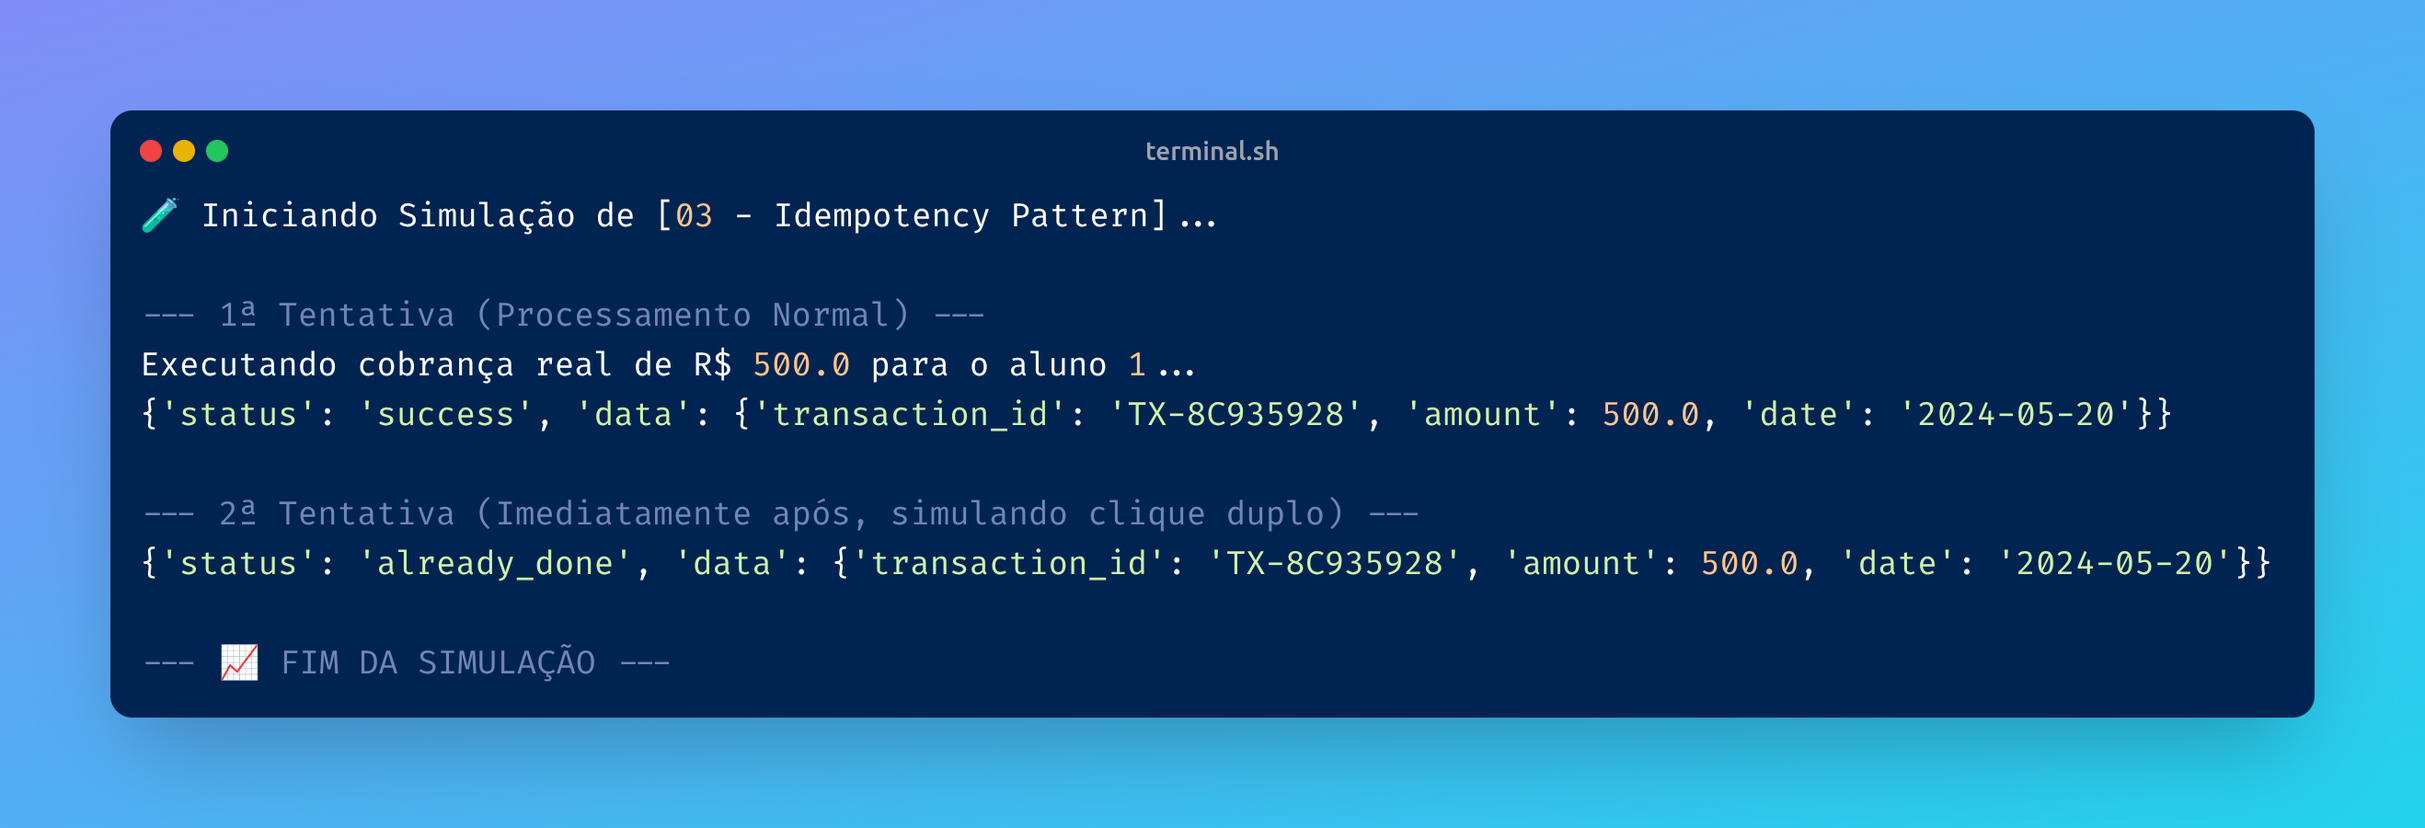
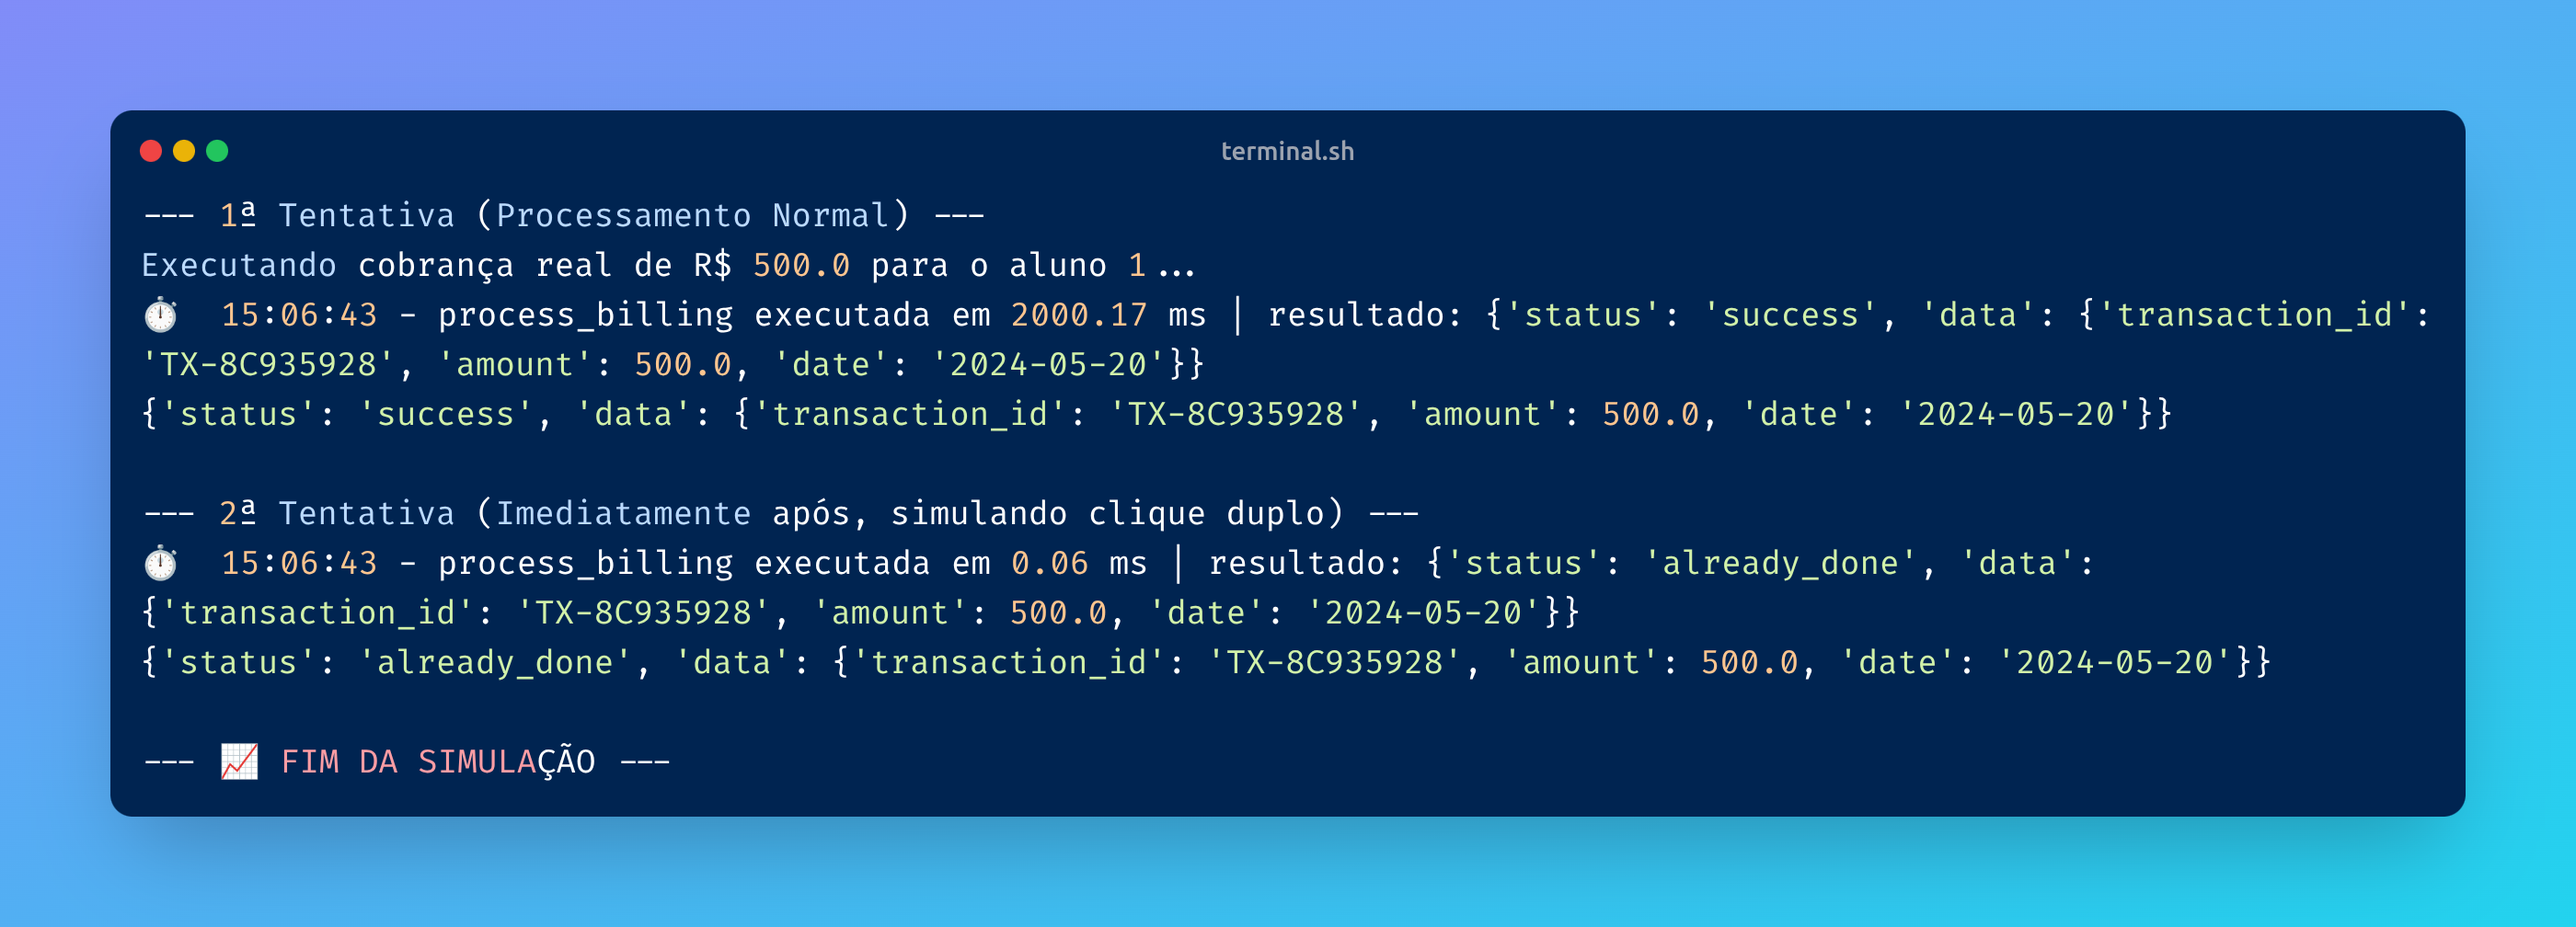
Adicionar Badges, Tabela de Navegação, Instruções de Execução (main.py) e Print do Terminal Completo

diff --git a/utils/decorators.py b/utils/decorators.py
@@ -1,0 +1,55 @@
+import time
+import logging
+from functools import wraps
+from typing import Callable, Optional
+
+logger = logging.getLogger(__name__)
+
+def timer(
+    log_level: int = logging.INFO,
+    log_args: bool = True,
+    log_result: bool = True,
+    logger_instance: Optional[logging.Logger] = None
+) -> Callable:
+    """
+    Decorator para medir tempo de execução de funções e registrar em log.
+
+    Args:
+        log_level: Nível do log (logging.DEBUG, INFO, etc.)
+        log_args: Se True, registra os argumentos da chamada.
+        log_result: Se True, registra o resultado da função.
+        logger_instance: Logger customizado (caso queira um logger específico).
+
+    Uso:
+        @timer(log_level=logging.DEBUG, log_args=False)
+        def minha_funcao(x, y):
+            ...
+    """
+    def decorator(func: Callable) -> Callable:
+        @wraps(func)
+        def wrapper(*args, **kwargs):
+            nonlocal logger_instance
+            if logger_instance is None:
+                logger_instance = logger
+
+            start = time.perf_counter()
+            try:
+                result = func(*args, **kwargs)
+                duration_ms = (time.perf_counter() - start) * 1000
+
+                msg = f"{func.__name__} executada em {duration_ms:.2f} ms"
+                if log_args:
+                    msg += f" | args: {args}, kwargs: {kwargs}"
+                if log_result and result is not None:
+                    msg += f" | resultado: {result}"
+
+                logger_instance.log(log_level, msg)
+                return result
+            except Exception as e:
+                duration_ms = (time.perf_counter() - start) * 1000
+                logger_instance.error(
+                    f"{func.__name__} falhou após {duration_ms:.2f} ms | erro: {e}"
+                )
+                raise  # relança a exceção (ou você pode retornar um erro estruturado)
+        return wrapper
+    return decorator

diff --git a/03-idempotency/idempotent_engine.py b/03-idempotency/idempotent_engine.py
@@ -1,6 +1,23 @@
+import os
 import time
 import hashlib
 import json
+import sys
+from pathlib import Path
+
+# Adiciona a raiz do projeto ao path para localizar a pasta /utils
+sys.path.append(os.path.abspath(os.path.join(os.path.dirname(__file__), '..')))
+# project_root = Path(__file__).parent.parent  # sobe de 03-idempotency/ para a raiz
+# sys.path.insert(0, str(project_root))
+
+import logging
+logging.basicConfig(
+    level=logging.INFO,
+    format='⏱  %(asctime)s - %(message)s',
+    datefmt='%H:%M:%S',
+    force=True
+)
+from utils.decorators import timer
 
 DATABASE = {}
 
@@ -14,6 +31,7 @@ def generate_idempotency_key(payload):
     dump = json.dumps(payload, sort_keys=True)
     return hashlib.md5(dump.encode()).hexdigest()
 
+@timer(log_args=False)
 def process_billing(student_id, amount, request_id=None):
     # Se não vier um ID do front-end, nós geramos um baseado nos dados
     payload = {"student_id": student_id, "amount": amount}
@@ -55,12 +73,12 @@ def process_billing(student_id, amount, request_id=None):
 if __name__ == "__main__":
     # --- ÁREA DE TESTE ---
     print("🧪 Iniciando Simulação de [03 - Idempotency Pattern]...\n")
-    payload_aluno = {"student_id": 1, "amount": 500.0}
+    payload = {"student_id": 1, "amount": 500.0}
 
     print("--- 1ª Tentativa (Processamento Normal) ---")
-    print(process_billing(**payload_aluno))
+    print(process_billing(**payload))
 
     print("\n--- 2ª Tentativa (Imediatamente após, simulando clique duplo) ---")
-    print(process_billing(**payload_aluno))
+    print(process_billing(**payload))
 
     print(f"\n--- 📈 FIM DA SIMULAÇÃO ---")

diff --git a/main.py b/main.py
@@ -1,0 +1,46 @@
+import subprocess
+import sys
+
+def run_script(path):
+    """Executa um script Python em um processo separado."""
+    print(f"\n🚀 Executando: {path}")
+    print("-" * 40)
+    try:
+        result = subprocess.run([sys.executable, path], check=True)
+    except subprocess.CalledProcessError:
+        print(f"❌ Erro ao executar o laboratório: {path}")
+    except KeyboardInterrupt:
+        print(f"\n⚠ Simulação interrompida pelo usuário.")
+    print("-" * 40)
+
+def main():
+    labs = {
+        "1": "01-race-conditions/secure_implementation.py",
+        "2": "02-observability/resilient_logging.py",
+        "3": "03-idempotency/idempotent_engine.py",
+        "4": "04-graceful-shutdown/graceful_worker.py"
+    }
+
+    while True:
+        print("\n 🛠  SOFTWARE ENGINEERING LABORATORY")
+        print("1. Race Conditions & Data Integrity")
+        print("2. Observability & Resiliency")
+        print("3. Idempotency Pattern")
+        print("4. Graceful Shutdown")
+        print("5. Rodar TODOS em sequência")
+        print("0. Sair")
+        
+        choice = input("\nEscolha um lab: ")
+
+        if choice == "0":
+            break
+        elif choice == "5":
+            for path in labs.values():
+                run_script(path)
+        elif choice in labs:
+            run_script(labs[choice])
+        else:
+            print("Opção inválida!")
+
+if __name__ == "__main__":
+    main()

diff --git a/README.md b/README.md
@@ -1,15 +1,49 @@
 # Software Engineering Laboratory 🧪
 
+![Python](https://img.shields.io/badge/python-3.10+-blue.svg) ![Status](https://img.shields.io/badge/status-active-success.svg) ![License](https://img.shields.io/badge/license-MIT-green.svg)
+
 Este repositório é um laboratório prático de conceitos avançados de engenharia de software aplicada ao mundo real (Backend/Fintech). 
 
-O objetivo não é apenas codificar, mas entender os riscos de arquitetura, garantir a integridade dos dados e criar sistemas altamente observáveis.
+O foco está na resolução de **gargalos de sistemas de alta criticidade**, onde a integridade dos dados e a disponibilidade são inegociáveis.
 
-## 🛠 Tecnologias
-- **Linguagem:** Python 3.10+
-- **Conceitos:** Concorrência, Observabilidade, Resiliência, Idempotência.
+## 🛠 Tecnologias e Conceitos
+- **Linguagem:** Python 3.10+ 
+- **Arquitetura:** Concorrência, Observabilidade, Resiliência, Idempotência e Signal Handling.
 
 ## 📂 Estrutura do Lab
-- [`01-race-conditions`](./01-race-conditions): Estudo sobre concorrência e travas de banco de dados (Locks).
-- [`02-observability`](./02-observability): Implementação de logs estruturados e métricas de execução.
-- [`03-idempotency`](./03-idempotency): Estratégias para evitar processamentos duplicados.
-- [`04-graceful-shutdown`](./04-graceful-shutdown): Complemento de Idempotência para lidar com processos interrompidos.
+- `01-race-conditions`: Prevenção de inconsistências em acessos simultâneos usando Mutex/Locks.
+- `02-observability`: Implementação de logs estruturados (JSON) e estratégias de Retry com Exponential Backoff.
+- `03-idempotency`): Design de sistemas que evitam duplicidade de transações através de chaves únicas.
+- `04-graceful-shutdown`: Manipulação de sinais do S.O. para encerramento seguro de workers sem perda de dados.
+
+## 🧪 Módulos do Laboratório
+| Módulo | Descrição | Conceitos Chave | Link |
+| :--- | :--- | :--- | :--- |
+| **01** | Race Conditions | Mutex, Locks, Atomicidade | [Ver Detalhes](./01-race-conditions) |
+| **02** | Observability | Logs JSON, Backoff, Resiliência | [Ver Detalhes](./02-observability) |
+| **03** | Idempotency | Check-Lock-Execute, Hashes | [Ver Detalhes](./03-idempotency) |
+| **04** | Graceful Shutdown | SIGINT/SIGTERM, Cleanup | [Ver Detalhes](./04-graceful-shutdown) |
+
+## 📊 Visualização do Fluxo (Geral)
+```mermaid
+graph LR
+    A[Requisição] --> B(Idempotência)
+    B --> C{Lock/Race Condition}
+    C --> D[Execução Crítica]
+    D --> E(Observabilidade/Logs)
+    E --> F[Resposta Segura]
+    
+    style D fill:#f9f,stroke:#333,stroke-width:2px
+```
+
+## 🚀 Como Executar
+O projeto utiliza um orquestrador central para facilitar os testes de cada módulo:
+
+```bash
+python main.py
+```
+
+## 🖥 Resultado das Simulações
+Abaixo, a execução sequencial garantindo que cada padrão de design cumpra seu papel:
+
+![Print do Terminal](./terminal_output.png)
